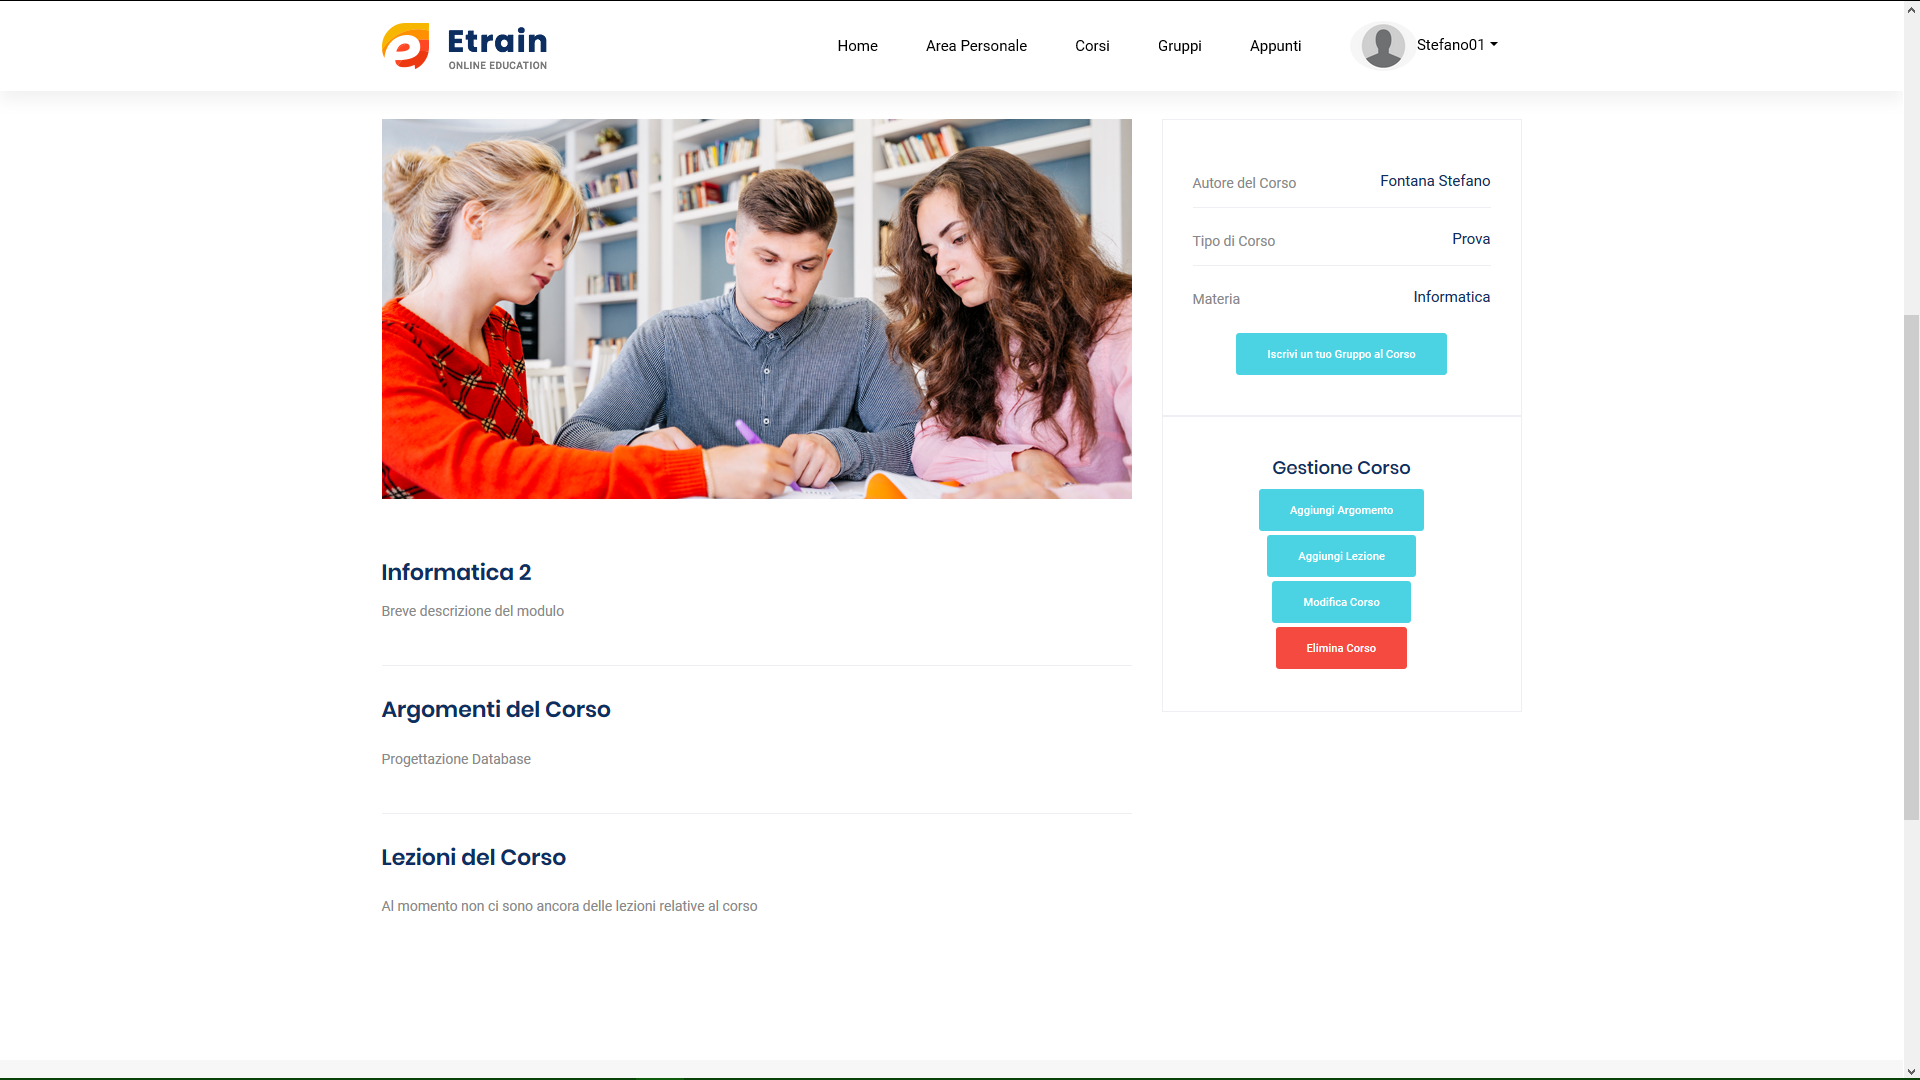
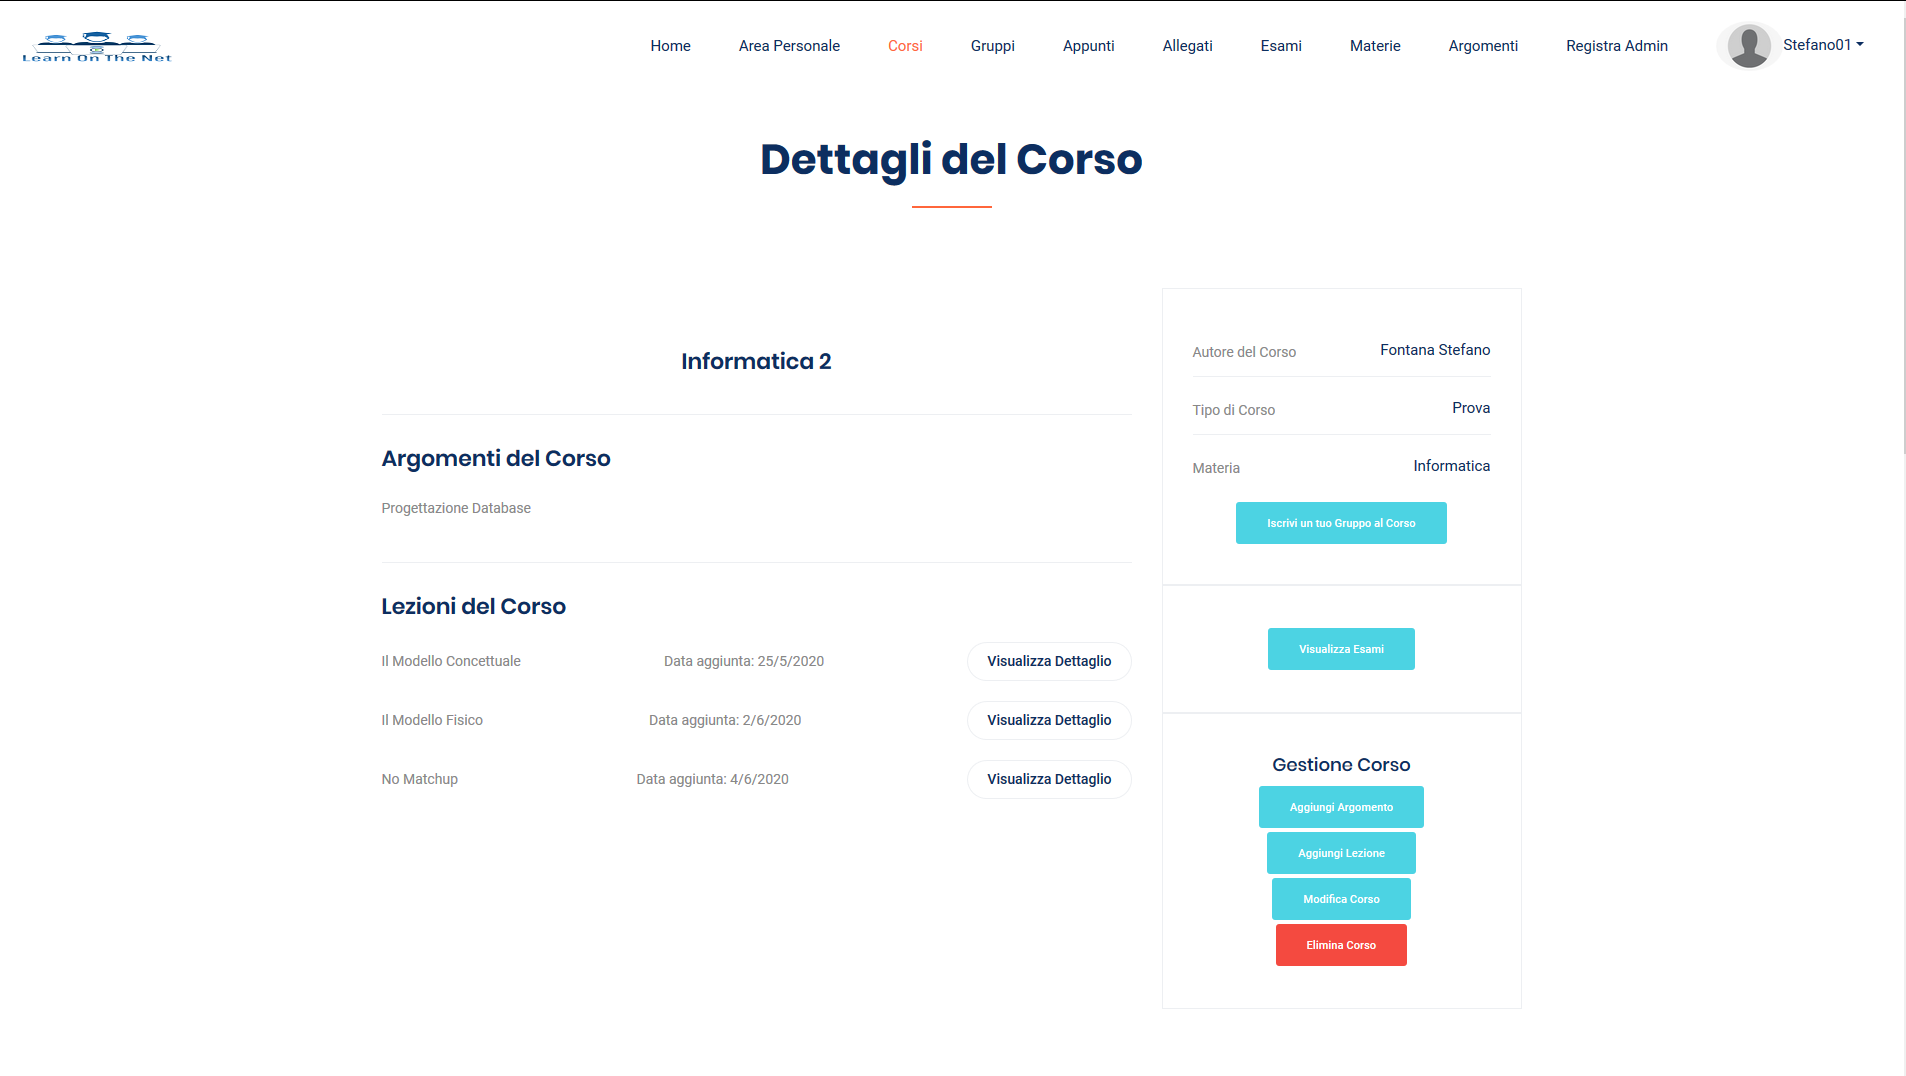
Modifica README
Aggiunte parti Esame e Svolgimento Esame; aggiornamento immagini e modifica di dettagli su parte Fontana

diff --git a/README.md b/README.md
@@ -71,17 +71,28 @@ Più in basso sono indicati i gruppi a cui l'utente è iscritto, i corsi che pot
 ![](/Immagini/Corsi.png)
 ![](/Immagini/RicercaCorsi.png)
 ![](/Immagini/InserimentoCorso.png)
-* DettaglioCorso: Pagina che consente di visualizzare i dettagli del corso selezionato. In caso in cui l'utente attualmente loggato sia l'autore del corso, verranno visualizzati dei pulsanti per l'aggiunta di argomenti e lezioni al corso, la modifica e l'eliminazione del corso. Il pulsante di aggiunta degli argomenti, come quello di aggiunta delle lezioni, aprirà una modale nella quale è possibile ricercare l'oggetto da aggiungere al corso. Cliccando il pulsante della modifica del corso è possibile modificare i dettagli del corso, rimuovere gli argomenti e le lezioni. Se invece l'utente attualmente loggato è iscritto al corso sarà possibile visualizzare il dettaglio delle lezioni cliccando l'apposito pulsante oppure iscrivere un gruppo di cui è autore. Se invece l'utente loggato al sito non è iscritto avrà la possibilità di farlo o di iscrivere un gruppo di cui è autore con gli appositi pulsanti. Pagina realizzata da Fontana.
+* DettaglioCorso: Pagina che consente di visualizzare i dettagli del corso selezionato. In caso in cui l'utente attualmente loggato sia l'autore del corso, verranno visualizzati dei pulsanti per l'aggiunta al corso di argomenti e lezioni già esistenti, la modifica e l'eliminazione del corso. Il pulsante di aggiunta degli argomenti, come quello di aggiunta delle lezioni, aprirà una modale nella quale è possibile ricercare l'oggetto da aggiungere al corso. Cliccando il pulsante della modifica del corso è possibile modificare i dettagli del corso, rimuovere gli argomenti e le lezioni. Al fondo della pagina è presente una sezione per l'inserimento di una nuova lezione. Se invece l'utente attualmente loggato è iscritto al corso sarà possibile visualizzare il dettaglio delle lezioni cliccando l'apposito pulsante oppure iscrivere un gruppo di cui è autore. Inoltre è presente, nei due casi precedenti, un pulsante per accedere alla sezione degli esami relativi al corso. Se invece l'utente loggato al sito non è iscritto avrà la possibilità di farlo o di iscrivere un gruppo di cui è autore con gli appositi pulsanti. Pagina realizzata da Fontana.
 ![](/Immagini/AdminCorso.png)
+![](/Immagini/InsLezioneCorso.png)
 ![](/Immagini/IscrittoCorsoNoAdm.png)
 ![](/Immagini/NoIscrittoCorso.png)
-* DettaglioLezione: Pagina che consente di visualizzare i dettagli del lezione selezionata. In caso in cui l'utente attualmente loggato sia l'autore della lezione, verranno visualizzati dei pulsanti per l'aggiunta di appunti alla lezione, la modifica e l'eliminazione della lezione. Il pulsante di aggiunta degli appunti aprirà una modale nella quale è possibile ricercare l'appunto da aggiungere alla lezione. Cliccando il pulsante della modifica della lezione è possibile modificarne i dettagli e rimuovere gli appunti. Se invece l'utente attualmente loggato è iscritto al corso di cui la lezione fa parte potrà vedere i dettagli della lezione e visualizzare i dettagli degli appunti tramite l'apposito pulsante solo una volta dopo essersi iscritto alla lezione tramite l'apposito pulsante, a patto che non sia terminata. Pagina realizzata da Fontana.
+* DettaglioLezione: Pagina che consente di visualizzare i dettagli del lezione selezionata. In caso in cui l'utente attualmente loggato sia l'autore della lezione, verranno visualizzati dei pulsanti per l'aggiunta di appunti alla lezione, la modifica e l'eliminazione della lezione. Il pulsante di aggiunta degli appunti aprirà una modale nella quale è possibile ricercare l'appunto da aggiungere alla lezione. Cliccando il pulsante della modifica della lezione è possibile modificarne i dettagli e rimuovere gli appunti. Se invece l'utente attualmente loggato è iscritto al corso di cui la lezione fa parte, solo una volta dopo essersi iscritto alla lezione tramite l'apposito pulsante potrà vedere i dettagli della lezione e visualizzare i dettagli degli appunti tramite l'apposito pulsante, a patto che la lezione non sia terminata. Pagina realizzata da Fontana.
 ![](/Immagini/AdminLezione.png)
 ![](/Immagini/NoIscrittoLezione.png)
+* Esami: Pagina che consente di visualizzare un riepilogo di tutti gli esami collegati al corso di cui si stava visualizzando il dettaglio. In caso in cui l'utente attualmente loggato sia l'autore del corso, verrà visualizzato un elenco di tutti gli esami collegati al corso, con la possibilità di modificarli o di eliminarli. Cliccando il pulsante per la modifica, verranno visualizzati i dettagli dell'esame e le varie domande ad esso collegate. Le domande possono essere rimosse o essere aggiunte scegliendo fra i tipi forniti dal sistema (domanda chiusa, vero o falso, domanda a risposte multiple). Inoltre vi è una sezione apposita per l'inserimento di un nuovo esame e delle domande ad esso collegate. Se invece l'utente attualmente loggato è iscitto al corso, verrà visualizzato solo l'elenco degli esami; in caso in cui la data utile per lo svolgimento dell'esame non sia ancora passata, tramite l'apposito pulsante si verrà reindirizzati alla pagina di riepilogo per poi dare l'esame. Pagina realizzata da Fontana.
+![](/Immagini/EsamiCorso.png)
+![](/Immagini/InserimentoEsame.png)
+* SvolgimentoEsame: Pagina che consente di visualizzare il dettaglio dell'esame selezionato e che permette di svolgere l'esame in caso non sia ancora scaduto e non sia già stato dato. Se l'esame è disponibile, cliccando sul pulsante Svolgi Esame verrà aperta una nuova finestra del browser nel quale verranno visualizzate, ad una ad una, le domande e partirà il timer per la durata dell'esame. Una volta che l'utente inserisce tutte le risposte o una volta che il tempo esaurisce, l'utente deve consegnare e verrà calcolato il risultato ottenuto e salvato sul database. È stato realizzato un sistema che, in caso l'utente debba ricaricare la pagina o perda la connessione e sia costretto a ricollegarsi, se la pagina dell'esame non viene chiusa le domande attualmente inserite non andranno perse e il tempo riprenderà dal momento della disconnessione. Nel caso in cui la pagina venga chiusa, le risposte date andranno perse. Se l'utente ha già sostenuto l'esame, verrà visualizzato il risultato ottenuto; se invece l'esame è terminato e non si ha effettuato nessun tentativo si vedrà solo il dettaglio dell'esame.
+![](/Immagini/DettaglioEsame.png)
+![](/Immagini/EsameDaSvolgere.png)
+![](/Immagini/PagSvolgimentoEsame.png)
+![](/Immagini/EsameSvolto.png)
 * Gruppi: Pagina che consente di ricercare e visualizzare i gruppi presenti nel Database. Effettuata la ricerca vengono visualizzati in dei box alcuni dati riepilogativi di ogni gruppo che corrisponde ai filtri di ricerca, cliccando sul nome del gruppo sarà possibile accedere alla sua pagina di dettaglio dove sono presenti tutti i dettagli del gruppo. La corrente pagina presenta al fondo un form che permette l'inserimento di un nuovo gruppo specificandone il tipo (classe, privato, amici, ecc.) tra quelli presenti su Database. Pagina realizzata da Fontana.
 ![](/Immagini/Gruppi.png)
+![](/Immagini/RicercaGruppi.png)
 ![](/Immagini/InserimentoGruppo.png)
 * DettaglioGruppo: Pagina che consente di visualizzare i dettagli del gruppo selezionato. In caso in cui l'utente attualmente loggato sia l'autore del gruppo, verranno visualizzati anche dei pulsanti per l'aggiunta di componenti del gruppo, la modifica e l'eliminazione del gruppo. Il pulsante di aggiunta dei membri aprirà una modale nella quale è possibile ricercare un utente registrato sul sito e aggiungerlo al gruppo. Cliccando il pulsante della modifica del gruppo è possibile modificare i dettagli del gruppo e rimuoverne i componenti. Pagina realizzata da Fontana.
+![](/Immagini/AdminGruppo.png)
 ![](/Immagini/DettaglioGruppo.png)
 * Appunti: Pagina che consente di ricercare e visualizzare gli appunti presenti nel Database. Al termine di ogni ricerca sono visualizzati in un box alcuni dati di ogni appunto individuato, cliccando sul box sarà possibile accedere alla pagina con tutti i dettagli dell'appunto e le funzioni di modifica, eliminazione e lettura. La pagina presente anche un form per l'inserimento di un nuovo appunto con la possibilità di caricare nuovi allegati o di utilizzare quelli presenti nel Database. Pagina relizzata da Giacardi.
 ![](/Immagini/RicercaAppunti.PNG)
